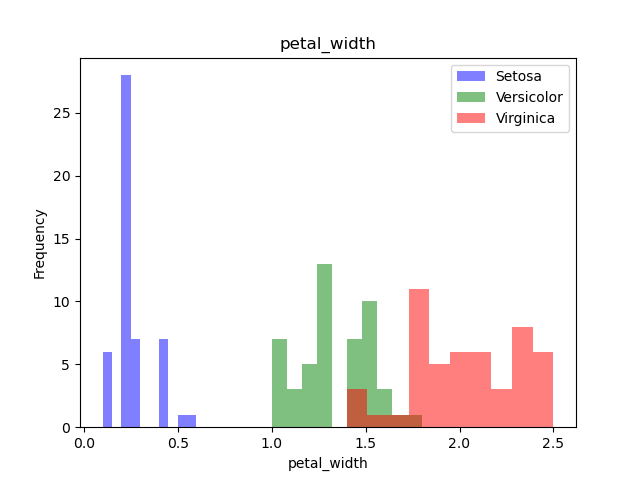
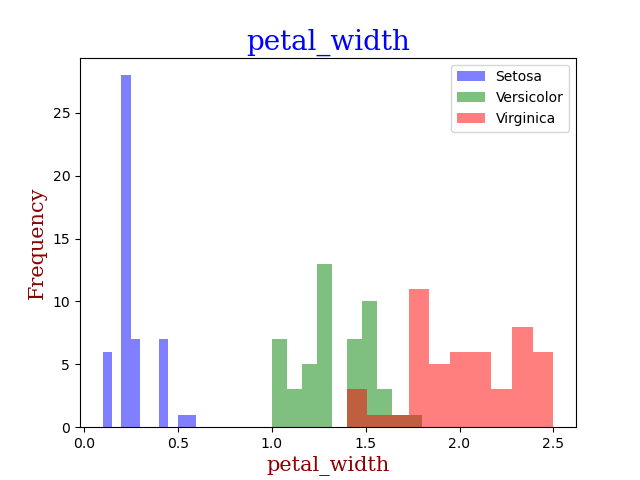
Adding a font dictionary to analysis.py histogram and scatter plot code

Changed region(s): [[0.375, 0.0625, 0.6562, 0.125], [0.0312, 0.4062, 0.0938, 0.625], [0.4062, 0.9375, 0.5938, 1.0]]

diff --git a/analysis.py b/analysis.py
@@ -25,8 +25,8 @@ def create_summary(df, FILENAME): #The function takes in two parameters, the dat
 
         #Write the first line to the file
         file.write("Summary of the Iris Dataset\n")
-        file.write("\n")
-
+        file.write("\n") #Add a new line to the file
+        #
         file.write("****************************************************************************************************\n")
 
         #Write the first 10 rows of the dataset to the file
@@ -89,10 +89,12 @@ def create_summary(df, FILENAME): #The function takes in two parameters, the dat
 
         file.write("****************************************************************************************************\n")
 
+
+
 #Final version of the code to create a histogram for each variable for each species on the same plot
 #Create a function to create histograms for each variable
 def create_histogram(df, variable): #The function takes in two parameters, the dataframe and the variable to create the histogram foran
-    #Using the dataframe we can create local variable for each species
+    #Using the dataframe we can create local variable for each species, therefore we can amalgamate each species onto our histogram in different colours
     setosa = df[df.species == "Iris-setosa"]
     versicolor = df[df.species=='Iris-versicolor']
     virginica = df[df.species=='Iris-virginica']
@@ -104,22 +106,29 @@ def create_histogram(df, variable): #The function takes in two parameters, the d
 
     #Create the histogram for the same variable for each species on the one plot. Therefore three histograms will be 
     #created on the same plot.
-    ax.hist(setosa[variable], bins=10, label="Setosa", color="blue", alpha=0.5)
+    ax.hist(setosa[variable], bins=10, label="Setosa", color="blue", alpha=0.5) #The alpha parameter is used to make the bars transparent
     ax.hist(versicolor[variable], bins=10, label="Versicolor", color="green", alpha=0.5)
     ax.hist(virginica[variable], bins=10, label="Virginica", color="red", alpha=0.5)
 
+    #Set the font for the x and y axis labels and the title
+    font1 = {'family':'serif','color':'blue','size':20}
+    font2 = {'family':'serif','color':'darkred','size':15}
+
     #Set the x and y axis labels
-    ax.set_xlabel(variable)
-    ax.set_ylabel("Frequency")
+    ax.set_xlabel(variable, fontdict=font2)
+    ax.set_ylabel("Frequency", fontdict=font2)
     
     #Add a title
-    ax.set_title(variable)
+    ax.set_title(variable, fontdict=font1)
 
     #Add a legend
     ax.legend()
 
     #Save the plot as a .png file
     plt.savefig(variable + "_histogram.png")
+
+#todo: Try and figure out how to take in values for the x and y scale for the scatter plot function....
+
 
 #Use same approach as above to create a scatter plot for each pair of variables. Therefore we create a function to create the scatter plots
 def create_scatter_plot(df, x, y): #The function takes in three parameters, the dataframe and the two variables to create the scatter plot for
@@ -140,15 +149,19 @@ def create_scatter_plot(df, x, y): #The function takes in three parameters, the 
     ax.scatter(versicolor[x], versicolor[y], label="Versicolor", facecolor="green")
     ax.scatter(virginica[x], virginica[y], label="Virginica", facecolor="red")
 
+    #Set the font for the x and y axis labels and the title
+    font1 = {'family':'serif','color':'blue','size':20}
+    font2 = {'family':'serif','color':'darkred','size':15}
+
     #Set the x and y axis labels
-    ax.set_xlabel(x + " (cm)")
-    ax.set_ylabel(y + " (cm)")
+    ax.set_xlabel(x + " (cm)", fontdict=font2)
+    ax.set_ylabel(y + " (cm)", fontdict=font2)
 
     #Add a grid
     ax.grid()
 
     #Add a title
-    ax.set_title("Iris " + x + " vs " + y)
+    ax.set_title("Iris " + x + " vs " + y, fontdict=font1)
 
     #Add a legend
     ax.legend()
